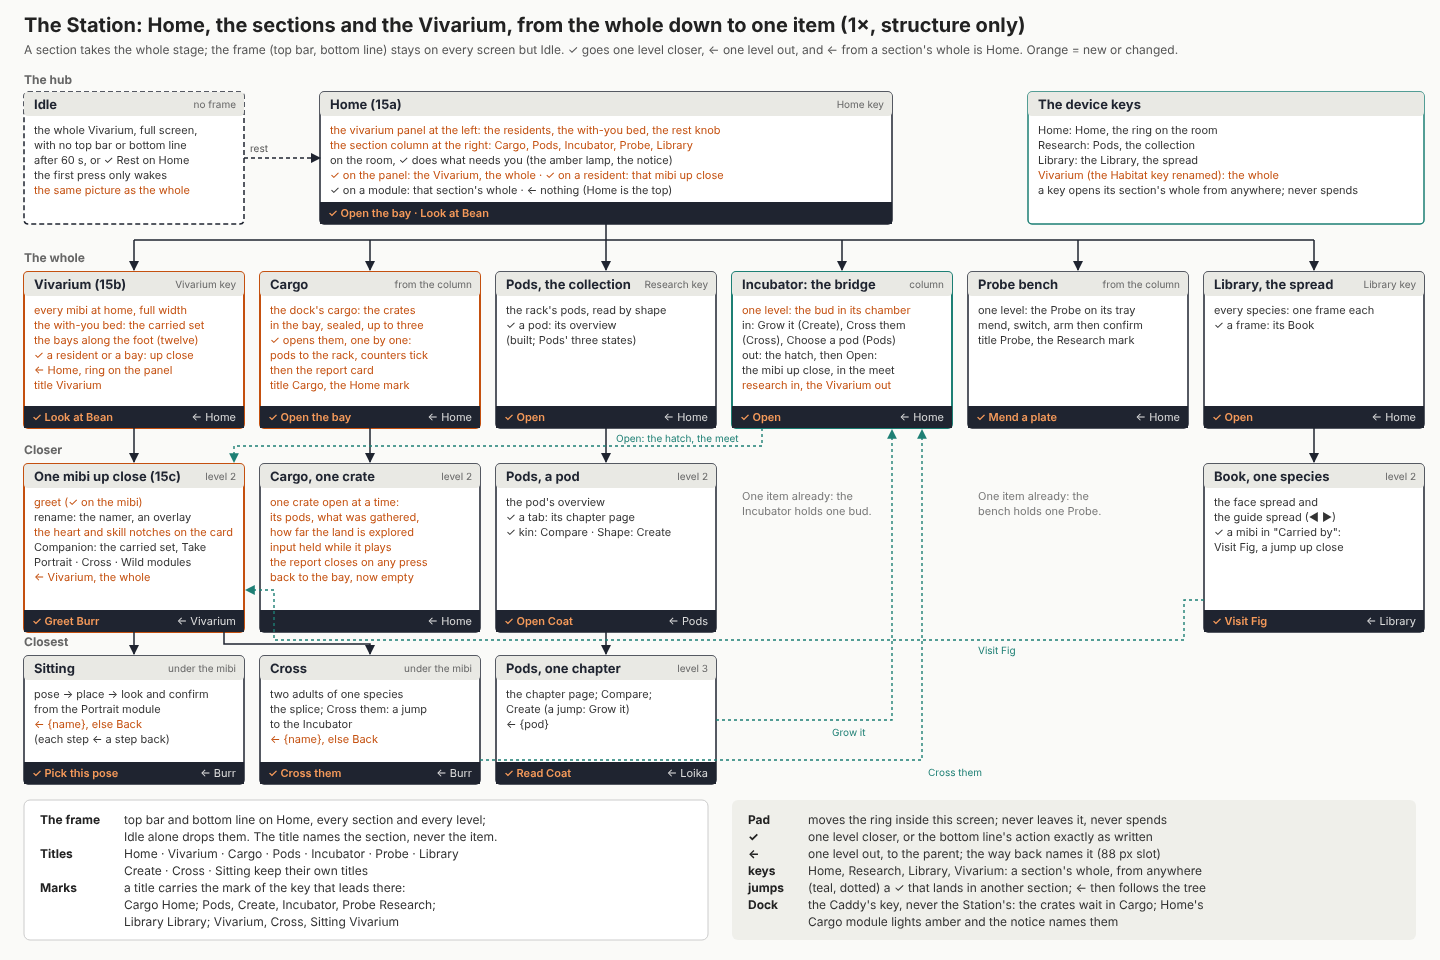
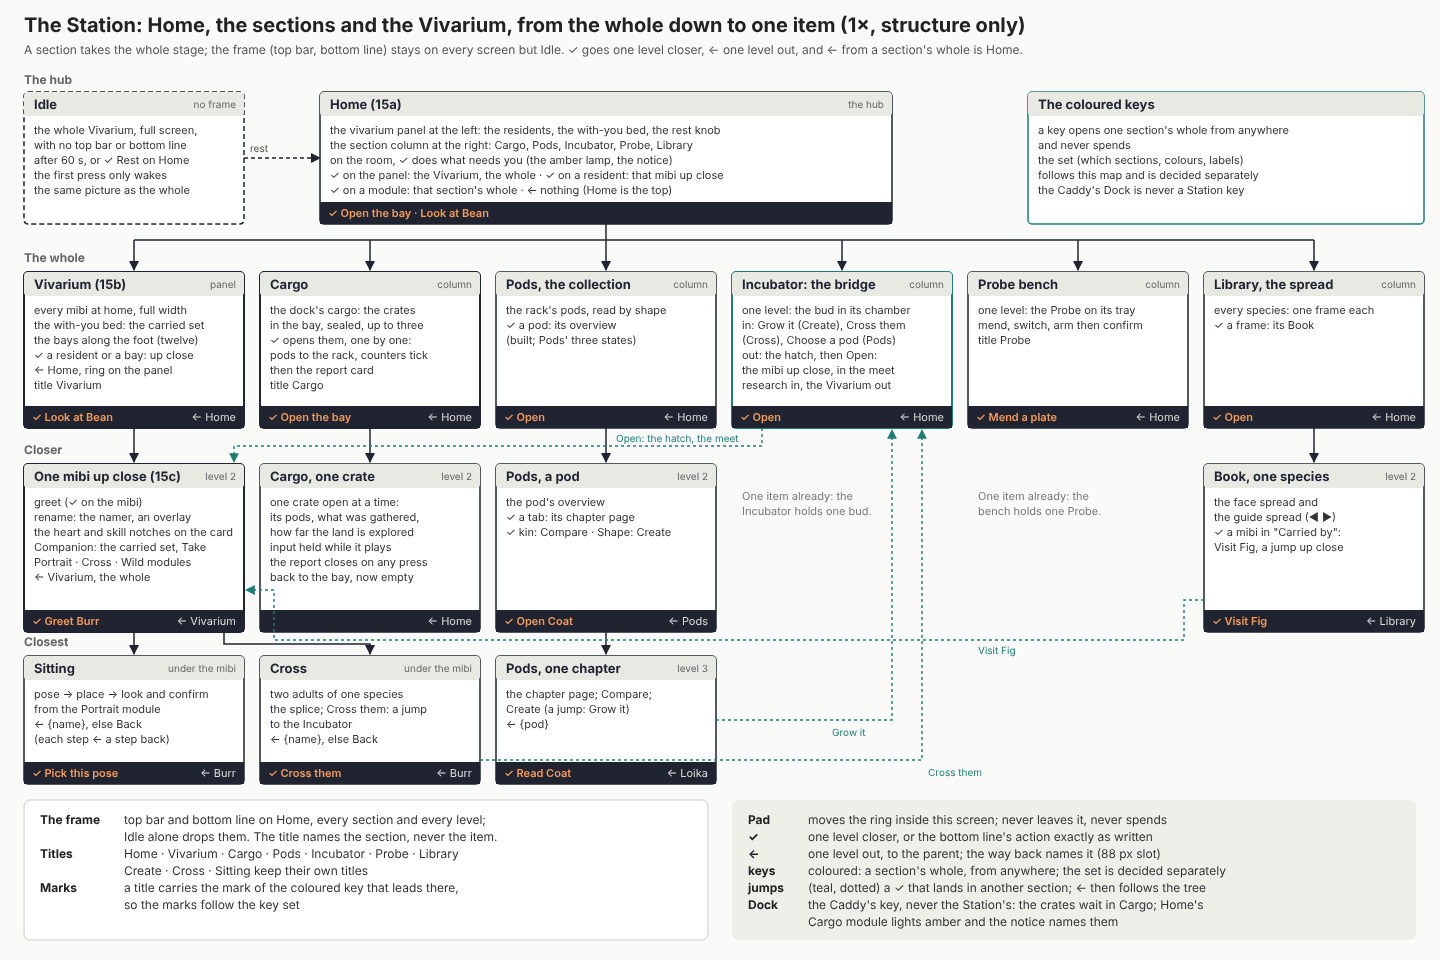
Station structure current; the coloured key set proposed from the screen map (16)

diff --git a/design/style-guide/station-layouts.md b/design/style-guide/station-layouts.md
@@ -16,9 +16,9 @@ Pods comes first because it sets the pattern the other screens follow.
 
 ---
 
-## Home, the sections and the Vivarium: the structure for review
+## Home, the sections and the Vivarium
 
-This section is the Station's structure, for review before the detailed specs: which screens exist, their levels from the whole down to one item, and how the keys move between them. Its wireframes are regions only (rectangles, purpose, focus targets) in palette stand-ins, with no art. Where it and a screen's section below disagree on structure, this section holds; the screens' measurements below hold until each detailed spec replaces them.
+This section is the Station's structure: which screens exist, their levels from the whole down to one item, and how the keys move between them. Its wireframes are regions only (rectangles, purpose, focus targets) in palette stand-ins, with no art. Where a screen's section below disagrees with it on structure (which screens exist, their parents, the way back, what Home's column holds), this section holds; a screen's measurements below hold until that screen's detailed spec is written from this structure.
 
 **What the Station is, on screen.** The Station is the device, and its screen is the device's own face. At rest it shows the Vivarium, the place where the mibis live, in a big panel, with the device's sections down the right. A section opened takes the whole stage, and comes closer level by level, from the whole to one item. ← goes one level out, and from a section's whole it goes Home. Left alone, the Vivarium fills the whole screen.
 
@@ -26,7 +26,7 @@ This section is the Station's structure, for review before the detailed specs: w
 
 <img src="station-layouts/15-vivarium-map.png" width="1024" alt="The Station's screen map: Home, the sections and the Vivarium's levels">
 
-*15. The screen map: Home, each section and its levels, Idle, the Incubator between research and the Vivarium, the jumps, and what each key does. 1×, structure only ([SVG](station-layouts/15-vivarium-map.svg)).*
+*15. The screen map: Home, each section and its levels, Idle, the Incubator between research and the Vivarium, the jumps, and what the pad, ✓ and ← do. 1×, structure only ([SVG](station-layouts/15-vivarium-map.svg)).*
 
 | Screen | Level | What it is for | ✓ goes to | ← goes to (the way back's word) |
 | --- | --- | --- | --- | --- |
@@ -50,13 +50,17 @@ This section is the Station's structure, for review before the detailed specs: w
 
 ### The frame on every screen
 
-- **The top bar and the bottom line stay on every screen but Idle:** Home, each section's whole and every level under it. "Takes the whole screen" means the whole stage (0, 40, 1024, 522): Home's column and panel go, the frame stays. The device is driven by its keys alone, and the bottom line is the only place that says what ✓ and ← do; the top bar is the only place the materials, the Companion and the world turn show. Idle alone drops both, as it does now.
+- **The top bar and the bottom line stay on every screen but Idle:** Home, each section's whole and every level under it. "Takes the whole screen" means the whole stage (0, 40, 1024, 522): Home's column and panel go, the frame stays. The device is driven by its keys alone, and the bottom line is the only place that says what ✓ and ← do; the top bar is the only place the materials, the Companion and the world turn show. Idle alone drops both.
 - **The title names the section, never the item:** Home, Vivarium, Cargo, Pods, Incubator, Probe, Library; Create, Cross and Sitting keep their own. One mibi up close is titled Vivarium; its name is on its tag.
-- **The title's mark is the key that leads there:** Home's for Home and Cargo; Research's for Pods, Create, the Incubator and the Probe; the Library's for the Library and the Book; the Vivarium's for the Vivarium, one mibi up close, Cross and the Sitting.
+- **The title's mark is the mark of the coloured key that leads there,** so it follows the key set (see [The column and the keys](#the-column-and-the-keys)).
 - **The top bar's Companion zone** holds the carried set: the glyph and its lamp, then three face places in carried order, at (760, 8, 120, 24).
 - **The way back is 88 px wide**, at (920, 570, 88, 24), right-aligned to x 1008, and the notice ends 24 px before it, at (624, 570, 272, 24), right-aligned to x 896. The ← cap's x is 1008 − the word's width − 20: 922 for Vivarium (66 px), 943 for Home (45 px). The longest notice, "dock the Companion for its crates", is 255 px, 271 with its lamp, inside the 272.
 
-**The column and the keys.** Home's column is the device's sections, one module each: every section that is not the Vivarium is reached from it in one press. The device keys are shortcuts to a section's whole from anywhere, and each key's section has its module: Research opens Pods, the Library key the Library, the Vivarium key the Vivarium's whole, and the Home key Home with the ring on the room. Cargo, the Incubator and the Probe have no key: Home's column is their way in. The Habitat key is the Vivarium key.
+### The column and the keys
+
+Home's column is the device's sections, one module each: Cargo, Pods, Incubator, Probe and Library. Every section but the Vivarium is reached from it in one press, and the Vivarium from the panel beside it. Cargo is a whole-stage section like the others, reached from its module or from the room when the crates wait. The Vivarium's whole sits between Home and one mibi up close: ← from one mibi goes to the whole, and ← from the whole goes Home.
+
+The device's coloured keys are shortcuts, each to one section's whole from anywhere, and never spend. Which sections get a key follows from this map, and the set (how many keys, their sections, colours and labels, and where each lands the ring) is decided separately, in [the coloured key set](../proposals/station-keys.md). The Station's screens, the kit's hardware labels and `nav.mjs` follow that set once it is decided. The Caddy's Dock is never a Station key.
 
 ### Home
 
@@ -124,17 +128,15 @@ The way back reads "Vivarium" and lands on the whole with the ring on this mibi 
 | **The namer** ([The namer](#the-namer), `namer.json`) | The overlay over the right column (592, 48, 416, 424), its keys, its states and its limit | Opened from one mibi up close; "Habitat" in its words reads the Vivarium |
 | **The Sitting** ([Sitting](#sitting), `sitting.json`) | Its three steps, its regions, its gilt frame and its events | Its parent is one mibi up close; from the pose step ← reads the mibi's name ("← Burr"), else "Back" |
 | **The carried set** (the Companion module, the top bar's three faces, the bed) | The three places on the Companion module, Take and Leave against the projected set, the pending stone lamp, the overflow rule, the refusal plate "Fig stayed: the Companion was full", the heart as a state only, the bed's one to three sleepers, the Idle line naming those out | Greet replaces Spend time; the Bond module is gone; the skill notches join the card |
-| **The top bar** | Its zones, rules and marks; the Companion zone at (760, 8, 120, 24) with three face places | The title and mark "Vivarium" replace "Habitat" |
+| **The top bar** | Its zones, rules and marks; the Companion zone at (760, 8, 120, 24) with three face places | The title "Vivarium" replaces "Habitat"; the mark follows the key set |
 | **The bottom line** | Its four zones and their rules | The way back widens to 88 (920, 570, 88, 24); the notice ends at 896 (624, 570, 272, 24) |
 | **Home** | The vivarium panel, the residents, the bed, the rest knob, the name tag, the room's ✓ | The column holds five section modules of 88 on a 104 pitch (Cargo, Pods, Incubator, Probe, Library); the panel is a focus target; the Bay module is Cargo; the arrival moves to Cargo |
 | **Idle** | Its composition, its line and its keys | It is the Vivarium's whole without the frame: the same painting |
-| **Habitat** | Its layout is one mibi up close | The name, the title and the key are the Vivarium's; its ← goes to the whole, not Home |
+| **Habitat** | Its layout is one mibi up close | The name and the title are the Vivarium's; its ← goes to the whole, not Home |
 
 ### Not designed yet
 
-- Whether the Vivarium's whole is its own framed level between Home and one mibi up close, so ← from one mibi goes to the whole and not Home.
-- Whether the dock's cargo opens in Cargo, its own whole-stage section, or stays a moment on Home's panel.
-- Whether the Library has a module on Home's column, or is reached by its key alone.
+- The coloured key set: how many keys, which sections, their colours and labels, and where each lands the ring ([the coloured key set](../proposals/station-keys.md)); the title marks follow it.
 - The detailed spec of each screen above, its measured objects and its focus as data.
 
 ---

diff --git a/design/proposals/station-keys.md b/design/proposals/station-keys.md
@@ -1,0 +1,36 @@
+# The Station's coloured key set
+
+This proposes the Station's coloured keys: four keys, Home, Vivarium, Research and Library, one for each family of sections on the [screen map](../style-guide/station-layouts.md#the-screen-map), on the four workspace positions the device already reserves. It is for the owner, and for the builders of the Station's screens and the kit's hardware labels once it is decided.
+
+<img src="station-keys/16-key-set.png" width="1440" alt="The Station's front with the four coloured keys beside Home's screen, and what each key opens">
+
+*16. The key set on the Station's front at 4 px/mm, Home (15a) on the screen at 0.6×, and what each key opens. Paper positions from the [device-family concepts](../../hardware/concepts/device-family/concepts.md) ([SVG](station-keys/16-key-set.svg)).*
+
+## The set
+
+A coloured key opens one section's whole from anywhere, even from inside that section, and never spends. Every key drops Create's and Cross's unpaid choices and closes the namer, writing nothing; while a moment holds input (the arrival, the hatch), the key waits.
+
+| Position | Key (engraving) | Colour | Opens | The ring lands | Its mark titles |
+| --- | --- | --- | --- | --- | --- |
+| x 64 mm | Home (HOME) | amber `#e8962f` | Home | on the room, where ✓ does what needs you; on Home, back to the room | Home, Cargo |
+| x 88 mm | Vivarium (VIVARIUM) | green `#63a046` | the Vivarium's whole (15b) | on the mibi last seen up close: its resident, or its bay tile while it is out with the Companion; none seen yet, the first resident from the left; none at home, the first bay. From one mibi up close: the whole, the ring on that mibi | the Vivarium, one mibi up close, Cross, the Sitting |
+| x 112 mm | Research (RESEARCH) | teal `#2a9f90` | Pods, the collection | on the pod that most needs the player: a new one, then a glinting one, then the first. From a pod, a chapter, Compare or Create: the collection | Pods, Create, the Incubator, the Probe |
+| x 136 mm | Library (LIBRARY) | violet `#8460cd` | the Library, the spread | on the frame it was last on. From the Book: the spread, the ring on that species | the Library, the Book |
+
+Cargo, the Incubator and the Probe have no key: each is one press from Home's column. Cargo calls the player from the room (its amber module and the notice), and the Incubator is also reached by its jumps (Grow it, Cross them, Choose a pod).
+
+## Why these four
+
+- **The map has four families.** Home with Cargo; the living (the Vivarium, one mibi, Cross, the Sitting); the research (Pods, Create, the Incubator, the Probe); the reference (the Library, the Book). One key a family keeps each title's mark the colour of a key on the device.
+- **A key earns its place on a crossing the player makes mid-task.** The map's jumps run between research, the Vivarium and the Library (Grow it, the hatch, Visit, Open the guide). Without the Library key, reaching the Library from a chapter page costs ← ←, four ▼ and ✓.
+- **The row reads like Home.** The Vivarium sits at the left as the panel does, the column's sections to its right, the Library at the column's foot.
+- **The colours carry over.** Each colour stays with its family; amber for Home matches Cargo's amber lamp, which carries Home's mark. Home's amber is the nearest colour to ✓'s orange (`#f0661a`); the art director checks the two apart on the shell.
+
+## Weighed and set aside
+
+- **Three keys, the Library left to the column.** It frees a cap, but costs the Library crossing above.
+- **A key for each column section** (Cargo, the Incubator, the Probe). None is a mid-task crossing: Cargo is announced on Home, the Incubator is reached by its jumps, and the Probe is occasional upkeep. Five to seven keys do not fit the row.
+
+## Fit on the hardware
+
+The four keys take the four workspace positions at x 64, 88, 112 and 136 mm (y 166, 24 mm pitch, 18 mm caps reserved): no change to the shell. The engravings change: VIVARIUM replaces HABITAT, and positions 2 to 4 read Vivarium, Research, Library. A fifth key does not fit the row: 15 mm is free left of x 64 (to the pad's 30 mm reservation) and 16 mm right of x 136 (to ←'s), against an 18 mm cap.
